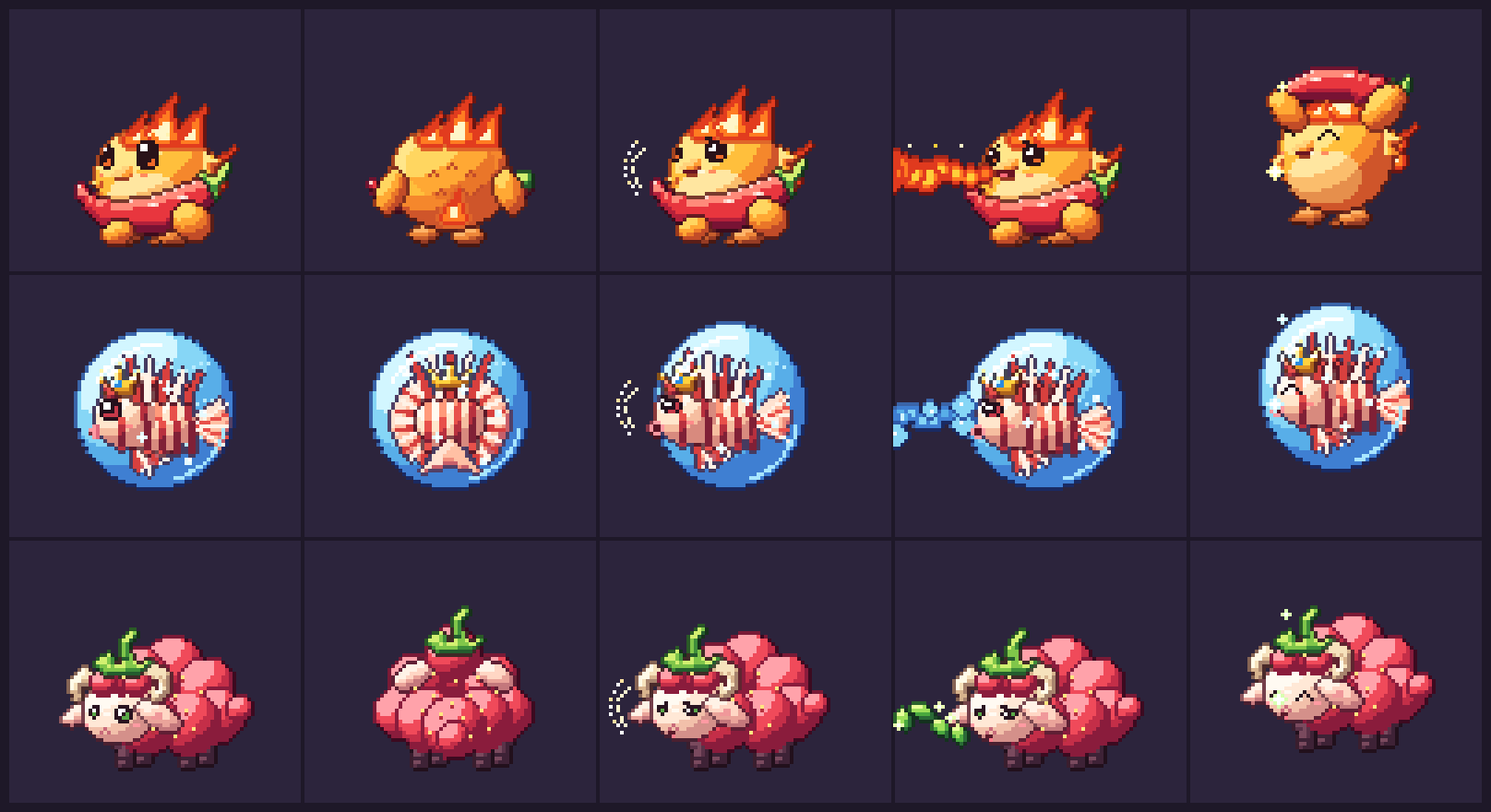
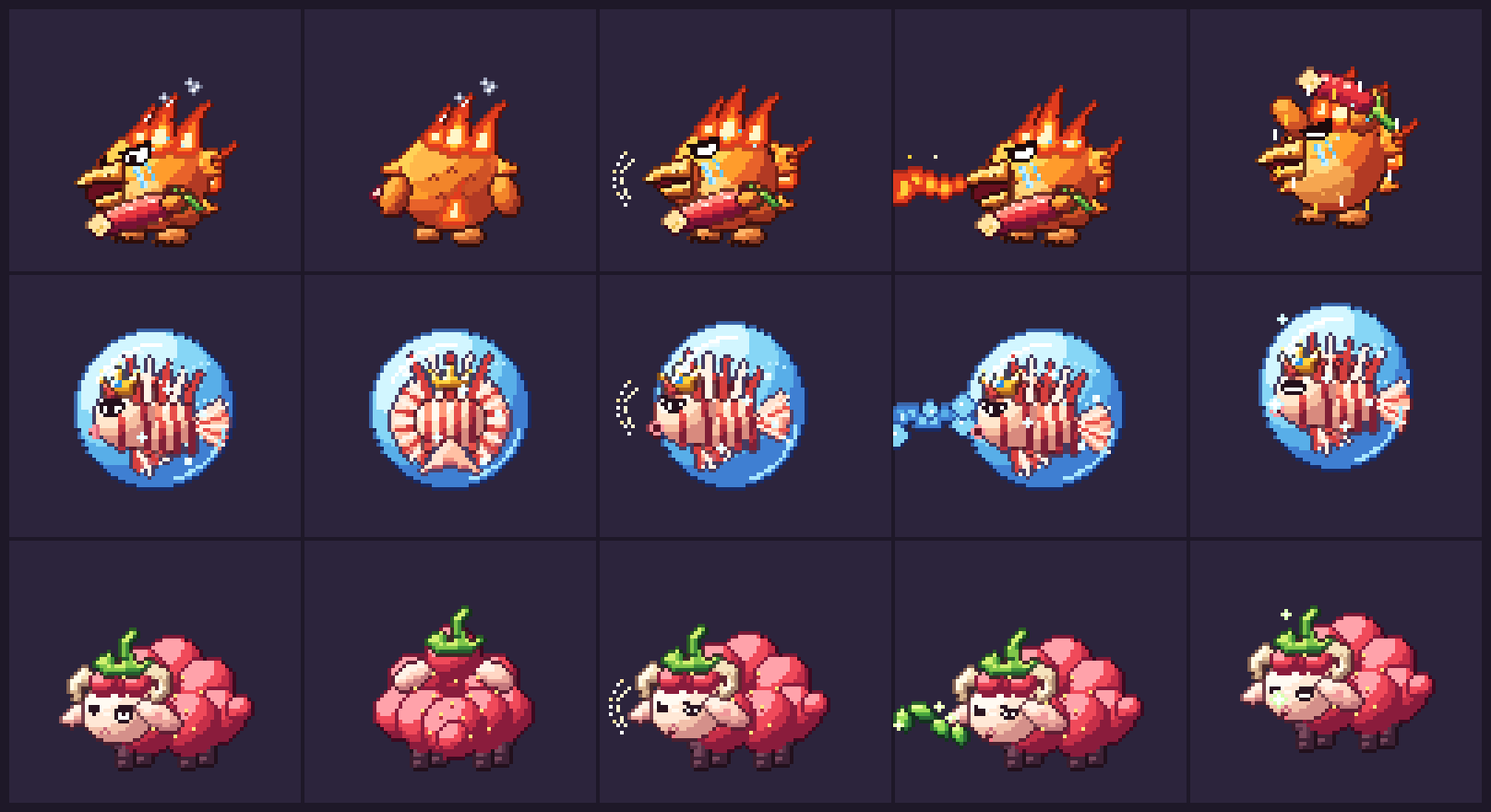
Chilichick redrawn mad: white glaring eyes, tears, screaming hooked beak, a bitten pepper in its wing; no cute eyes or blush on any starter
Claude-Session: https://claude.ai/code/session_015gU2GdpRsHMvMoBWRYFCmL

diff --git a/src/data/sprites/pix_starters.js b/src/data/sprites/pix_starters.js
@@ -3,150 +3,170 @@
 import { FX } from '../../px/pixmon.js';
 
 // ================================================================== CHILICHICK
-// A small, fat fire chick hugging a chili as big as its belly. A crest of three
-// flame tongues (no comb), a flame tuft for a tail, ember-lit eyes.
+// A small, fat, furious fire chick. It bit a chili pepper it knew was too hot and
+// now it is screaming about it: white glaring eyes with angry lids, tears streaming,
+// a wide-open hooked beak, a crest of flame tongues (no comb), ruffled feathers.
+// The pepper — bitten, seeds showing — never leaves its wing.
 const CHILI_PAL = {
-  body: { ramp: ['#ffe68a', '#ffbf3c', '#f5872c', '#cf552a'], line: '#5a1e18', lineLit: '#a4441f' },
-  belly: { ramp: ['#fff8da', '#ffe6a0', '#fbbd6c', '#e68f4c'], line: '#5a1e18' },
-  wing: { ramp: ['#ffd660', '#ffa834', '#ea7629', '#c24c28'], line: '#5a1e18', lineLit: '#9a3a1c' },
-  feet: { ramp: ['#ffb468', '#ee883a', '#c75e2c', '#963c24'], line: '#481812' },
-  beak: { ramp: ['#ffd27a', '#ff9e36', '#e0672a', '#b0432a'], line: '#5a1e18' },
-  chili: { ramp: ['#ff8a7a', '#e8363e', '#b4203a', '#781334'], line: '#3c0c1c', lineLit: '#6e1430', gloss: true, spec: 0.96, specC: '#ffd6cc' },
+  body: { ramp: ['#ffd256', '#ff9c2c', '#e8622a', '#b23a24'], line: '#3e120e', lineLit: '#8a2c18' },
+  belly: { ramp: ['#fff0b8', '#ffd47a', '#f6a650', '#d87a3a'], line: '#3e120e' },
+  wing: { ramp: ['#ffb84a', '#f2842a', '#cf5226', '#9a3220'], line: '#3e120e', lineLit: '#7a2416' },
+  feet: { ramp: ['#ffb468', '#e8803a', '#bc5a2c', '#863822'], line: '#2e0e0a' },
+  beak: { ramp: ['#ffe68e', '#ffb43a', '#e2782a', '#a84a20'], line: '#2e0e08', lineLit: '#7a3a14', th: [0.62, 0.3, 0.02] },
+  mouth: { ramp: ['#8a1c26', '#6a1020', '#4a0a18', '#300610'], line: '#2e0e08', flat: true },
+  chili: { ramp: ['#ff8a7a', '#e8363e', '#b4203a', '#781334'], line: '#3c0c1c', lineLit: '#6e1430', gloss: true, spec: 0.95, specC: '#ffd6cc' },
+  flesh: { ramp: ['#fff6d0', '#ffe2a0', '#f6c070', '#d89a50'], line: '#3c0c1c', flat: true },
   leaf: { ramp: ['#d2f070', '#80c64a', '#3f8e3a', '#245c2e'], line: '#16301a' },
-  crest: { ramp: ['#fff6c8', '#ffd040', '#ff7c22', '#e23c1e'], line: '#6a1612', lineLit: '#a42a18', th: [0.8, 0.5, 0.18], inner: '#e0662a' },
+  crest: { ramp: ['#fff6c8', '#ffd040', '#ff7c22', '#e23c1e'], line: '#5a120e', lineLit: '#a42a18', th: [0.8, 0.5, 0.18], inner: '#c84a22' },
 };
-const K = '#2a1218', WH = '#ffffff', EM = '#ee6a2a', EM2 = '#ffb04a';
-const EYE = {   // near eye 5×7 / far eye 3×6, per expression
-  open: [['.kkkk.', 'kWWkkk', 'kWWkkk', 'kkkkkk', 'kkkkkk', 'kkkkgk', 'kkkggk', '.kkkk.'], ['.kk.', 'kWkk', 'kkkk', 'kkkk', 'kkgk', 'kggk', '.kk.']],
-  fierce: [['kk....', '.kkk..', 'kkWkkk', 'kWWkkk', 'kkkkkk', 'kkkggk', '.kkkk.'], ['...k', '.kk.', 'kWkk', 'kkkk', 'kkgk', '.kk.']],
-  closed: [['......', '......', '......', '......', 'k....k', '.kkkk.'], ['....', '....', '....', '....', 'k..k', '.kk.']],
-  sleep: [['......', '......', '......', '......', '......', 'kkkkkk', '.kkkk.'], ['....', '....', '....', '....', '....', 'kkkk']],
-  happy: [['......', '......', '..kk..', '.k..k.', 'k....k'], ['....', '....', '.kk.', 'k..k', '....']],
-  hurt: [['......', '....kk', '..kk..', 'kk....', '..kk..', '....kk'], ['....', 'kk..', '..kk', '...k', '..kk', 'kk..']],
-  ko: [['......', 'kk..kk', '.kkkk.', '..kk..', '.kkkk.', 'kk..kk'], ['....', 'k..k', '.kk.', '.kk.', 'k..k']],
+// angry eyes, Pokémon-style: white with a dot pupil under a hard slanted lid (facing left)
+const K = '#1e0a0c', WH = '#ffffff';
+const EYE = {   // [near eye 8×6, far eye 4×4]
+  open: [['.......kk', '.....kkkk', '..kkkkWWk', 'kkkWWWWWk', '.kWppWWWk', '.kWppWWk.', '..kkkkk..'], ['kk..', '.kkk', 'kWpk', '.kkk']],
+  fierce: [['......kkk', '...kkkkkk', 'kkkkkkWWk', '.kpWWWWWk', '.kkWWWWk.', '..kkkkk..'], ['kk..', '.kkk', 'kpkk']],
+  closed: [['.......kk', '.....kkkk', '..kkkk...', 'kkk......', '.kkkkkkk.'], ['kk..', '.kkk', '..kk']],
+  sleep: [['.......kk', '....kkk..', '.........', '.........', 'kkkkkkkk.'], ['kk..', '..kk']],
+  happy: [['.......kk', '.....kkkk', '..kkkkkkk', 'kkkkkkkkk', '.kWWWWWk.', '..kkkkk..'], ['kk..', '.kkk', '.kWk']],
+  hurt: [['k.......k', '.kk...kk.', '...kkk...', '.kk...kk.', 'k.......k'], ['k..k', '.kk.', 'k..k']],
+  ko: [['.kkkkkkk.', 'kWkWWWkWk', 'kWWkWkWWk', 'kWWWkWWWk', 'kWWkWkWWk', '.kkkkkkk.'], ['kkk', 'kWk', 'kkk']],
 };
-const EYEMAP = { k: K, W: WH, g: EM, o: EM2 };
+const EYEMAP = { k: K, W: WH, p: K };
 
+// a chili pepper: pod from the stem end to the tip, calyx and curly stem; `bitten` cuts the tip open
 function chiliPod(P, pts, o = {}) {
-  // the pod, its calyx and curly stem; pts run from the stem end to the tip
   P.tube(pts, 'chili', { grp: o.grp || 'chili', round: 3 });
   const [sx, sy] = pts[0], dx = pts[0][0] - pts[1][0], dy = pts[0][1] - pts[1][1], d = Math.hypot(dx, dy) || 1, ux = dx / d, uy = dy / d;
-  // glossy streak along the top of the pod
-  for (let k = 1; k < Math.min(3, pts.length - 1); k++) { const [x, y, r] = pts[k]; P.px(x - 1, y - r + 1.4, '#ffd0c4'); P.px(x + 1, y - r + 1.4, '#ffd0c4'); P.px(x, y - r + 1.4, '#fff0ea'); }
-  // calyx: three sepals fanning back over the shoulder of the pod
+  for (let k = 1; k < Math.min(3, pts.length - 1); k++) { const [x, y, r] = pts[k]; P.px(x - 1, y - r + 1.4, '#ffd0c4'); P.px(x, y - r + 1.4, '#fff0ea'); }
+  if (o.bitten) {   // the bitten end: pale flesh and seeds
+    const [tx, ty, tr] = pts[pts.length - 1];
+    P.ell(tx, ty, tr + 0.4, tr + 0.4, 'flesh', { grp: (o.grp || 'chili') + 'b' });
+    P.px(tx, ty, '#e8b84a'); P.px(tx - 1, ty + 1, '#e8b84a'); P.px(tx + 1, ty - 1, '#fff8e0');
+  }
   const cx = sx + ux * 2, cy = sy + uy * 2;
-  P.poly([[cx - uy * 4.5, cy + ux * 4.5], [cx + ux * 3, cy + uy * 3 - 1], [cx + uy * 4.5, cy - ux * 4.5], [cx + ux * 1, cy + uy * 1 + 1.5]], 'leaf', { grp: 'calyx', round: 2 });
-  P.tube([[cx + ux * 2, cy + uy * 2, 1.3], [cx + ux * 4.5, cy + uy * 4.5 - 1.5, 1.1], [cx + ux * 4 + 1.5, cy + uy * 4 - 4, 0.9]], 'leaf', { grp: 'calyx', round: 1 });
+  P.poly([[cx - uy * 4, cy + ux * 4], [cx + ux * 3, cy + uy * 3], [cx + uy * 4, cy - ux * 4], [cx + ux, cy + uy]], 'leaf', { grp: 'calyx', round: 2 });
+  P.tube([[cx + ux * 2, cy + uy * 2, 1.2], [cx + ux * 4, cy + uy * 4 + 1, 1], [cx + ux * 4 + 2, cy + uy * 4 + 3, 0.8]], 'leaf', { grp: 'calyx', round: 1 });
+}
+
+// the beak, built from two shaded mandibles; open: 0 shut, 1 shouting, 2 screaming
+function beak(P, bx, by, open) {
+  const o = open || 0, lo = o * 2.6;
+  if (o) {
+    P.poly([[bx + 2, by + 1], [bx - 8, by + 1], [bx - 6, by + 2 + lo], [bx + 2, by + 3 + lo * 0.6]], 'mouth', { grp: 'mouth' });
+    P.ell(bx - 2, by + 2 + lo * 0.7, 2.6, 1.2 + o * 0.4, 'mouth', { grp: 'mouth', flat: true });
+    P.stamp(bx - 4, by + 1 + Math.round(lo * 0.8), ['.tt.', 'tttt'], { t: '#ff6a7a' }, { on: true });   // tongue
+  }
+  // lower mandible (behind the upper one)
+  P.poly([[bx + 2, by + 1 + lo * 0.5], [bx - 6, by + 1.5 + lo], [bx - 5, by + 3 + lo], [bx + 2, by + 4 + lo * 0.6]], 'beak', { grp: 'beakL', round: 2, lit: -0.12 });
+  // upper mandible: a strong hooked beak
+  P.poly([[bx + 2, by - 4], [bx - 3, by - 2.5], [bx - 8, by - 0.5], [bx - 10, by + 1.5], [bx - 8.5, by + 1.6], [bx + 2, by + 1.2]], 'beak', { grp: 'beakU', round: 2 });
+  P.px(bx - 1, by - 2, '#fff6c0'); P.px(bx - 3, by - 1, '#fff6c0'); P.px(bx + 0, by - 3, '#ffe68e');       // ridge highlight
+  P.px(bx - 2, by - 1, '#7a3a14');                                                                        // nostril
 }
 
 function chilichick(P, m) {
-  const back = m.view === 'back', sq = m.sq, rx = 16 + sq, ry = 14 - sq;
-  const lean = m.lean + (m.tilt ? Math.round(m.tilt * 2) : 0);
-  const X = 40 + m.dx, base = 60 + m.bob, cy = base - ry, top = cy - ry;
-  const fx = X - lean;                                         // the face leans with the body
-  const fl = (m.ph >> 1) % 3;                                  // flame flicker phase
-  // ---- crest + tail (behind the body in the front view)
+  const back = m.view === 'back', sq = m.sq, rx = 15 + sq, ry = 13 - sq;
+  const idle = m.clip === 'idle' || m.clip === 'walk' || m.clip === 'run';
+  const shake = m.clip === 'idle' && (m.ph >> 1) % 2 ? 1 : 0;              // shaking with rage
+  const lean = 1 + m.lean + (m.tilt ? Math.round(m.tilt * 2) : 0);
+  const X = 40 + m.dx + shake, base = 60 + m.bob, cy = base - ry, top = cy - ry;
+  const fx = X - lean;
+  const fl = (m.ph >> 1) % 3;
+  const mouth = m.mouth || (idle ? ((m.ph >> 3) % 3 === 0 ? 2 : 1) : m.clip === 'sleep' ? 0 : 1);
+  // ---- crest: sharp flame tongues swept back; a tail flame
   const crest = () => {
-    P.flame(fx + 9, top + 4, 10 + (fl === 0 ? 1 : 0), 4.6, 8 - (fl === 1 ? 1 : 0), 'crest', { grp: 'crest', glow: true, round: 3 });
-    P.flame(fx + 2, top + 3, 13 + (fl === 1 ? 1 : 0), 5.6, 5 - (fl === 2 ? 1 : 0), 'crest', { grp: 'crest', glow: true, round: 3 });
-    P.flame(fx - 5, top + 4, 7 + (fl === 2 ? 1 : 0), 4, 3, 'crest', { grp: 'crest', glow: true, round: 2.5 });
+    P.flame(fx + 9, top + 4, 12 + (fl === 0 ? 2 : 0), 4.4, 9 - (fl === 1 ? 2 : 0), 'crest', { grp: 'crest', glow: true, round: 3 });
+    P.flame(fx + 2, top + 3, 15 + (fl === 1 ? 2 : 0), 5.2, 6 - (fl === 2 ? 1 : 0), 'crest', { grp: 'crest', glow: true, round: 3 });
+    P.flame(fx - 3, top + 2, 9 + (fl === 2 ? 2 : 0), 3.6, 4, 'crest', { grp: 'crest', glow: true, round: 2.5 });
   };
-  const tail = () => back ? P.flame(X + 1, base - 3, 10 + (fl === 1 ? 1 : 0), 4.2, 3, 'crest', { grp: 'tail', glow: true, round: 2.5 })
-    : P.flame(X + 15, cy + 2, 11 + (fl === 1 ? 1 : 0), 4.2, 9, 'crest', { grp: 'tail', glow: true, round: 2.5 });
-  // ---- feet
+  const tail = () => back ? P.flame(X + 1, base - 3, 11 + (fl === 1 ? 1 : 0), 4.2, 3, 'crest', { grp: 'tail', glow: true, round: 2.5 })
+    : P.flame(X + 14, cy + 1, 12 + (fl === 1 ? 2 : 0), 4.2, 10, 'crest', { grp: 'tail', glow: true, round: 2.5 });
+  // ---- feet with dark talons
   const feet = () => {
     const nearUp = m.step > 0 ? 2 : 0, farUp = m.step < 0 ? 2 : 0;
-    P.ell(X - 7, base + 1.5 - farUp, 3.6, 2.1, 'feet', { grp: 'footF' });
-    P.ell(X + 5, base + 2 - nearUp, 4, 2.3, 'feet', { grp: 'footN' });
-    if (!back) {
-      P.stamp(X - 12, base + 2 - farUp, ['ff.f'], { f: '#c75e2c' }, { mat: 'feet', grp: 'footF' });
-      P.stamp(X - 1, base + 3 - nearUp, ['ff.f'], { f: '#c75e2c' }, { mat: 'feet', grp: 'footN' });
-    }
+    P.ell(X - 6, base + 1.5 - farUp, 3.4, 2, 'feet', { grp: 'footF' });
+    P.ell(X + 5, base + 2 - nearUp, 3.8, 2.2, 'feet', { grp: 'footN' });
+    if (!back) { P.stamp(X - 11, base + 2 - farUp, ['c.c.c'], { c: '#2e0e0a' }, { mat: 'feet', grp: 'footF' }); P.stamp(X, base + 3 - nearUp, ['c.c.c'], { c: '#2e0e0a' }, { mat: 'feet', grp: 'footN' }); }
   };
-  // ---- the chili, wherever the wings have it
-  const pod = () => {
+  // ---- the pepper in the near wing (stem in the wing, bitten tip toward the beak)
+  const pepper = () => {
     if (m.arm === 2 || m.arm === 3) return;
-    if (m.arm === 1) chiliPod(P, [[X + 12, top - 2, 3.6], [X + 3, top - 4, 4.2], [X - 6, top - 4, 3.6], [X - 13, top - 2, 2.2], [X - 16, top + 1, 1]]);
-    else if (m.arm === 4) chiliPod(P, [[X + 7, cy + 9, 4], [X + 1, cy + 6, 4], [X - 5, cy + 2, 3.2], [X - 9, cy - 1, 2], [X - 11, cy - 2, 1]]);
-    else chiliPod(P, [[X + 13, cy + 4, 3.8], [X + 7, cy + 8, 4.8], [X - 1, cy + 10.5, 4.9], [X - 9, cy + 11, 4.1], [X - 15, cy + 9, 2.9], [X - 19, cy + 5.5, 1.6], [X - 20, cy + 2.5, 0.9]]);
+    if (m.arm === 1) chiliPod(P, [[X + 8, top - 1, 2.4], [X + 3, top - 4, 3.2], [X - 3, top - 6, 3], [X - 7, top - 7, 2.2]], { bitten: true });
+    else if (m.arm === 4) chiliPod(P, [[X + 1, cy + 8, 2.4], [X - 3, cy + 5, 3.2], [X - 7, cy + 2, 3], [X - 10, cy, 2.2]], { bitten: true });
+    else chiliPod(P, [[X + 4, cy + 6, 2.6], [X - 1, cy + 7.5, 3.6], [X - 7, cy + 9.5, 3.5], [X - 12, cy + 11, 2.8], [X - 15, cy + 12, 2.2]], { bitten: true });
   };
   const wings = () => {
     const W = {
-      0: [[X + 10, cy + 12, 4.6, 5.6, -1.1], [X - 10, cy + 15, 3.2, 4, 1.2]],
-      1: [[X + 13, top + 2, 4.5, 7, -2.4], [X - 13, top + 3, 3.6, 6, 2.4]],
-      2: [[X - 6, cy + 2, 4.5, 7, 1.2], [X - 15, cy + 2, 3.4, 5.5, 1.1]],
-      3: [[X + 9, cy + 6, 5, 7, -0.4], [X - 11, cy + 7, 3.4, 5, 0.5]],
-      4: [[X + 7, cy + 10, 5, 7, -1.0], [X - 9, cy + 9, 3.6, 5, 0.8]],
+      0: [[X + 7, cy + 7, 4.4, 6, -0.9], [X - 12, cy + 2, 3.4, 5.6, 0.2]],
+      1: [[X + 9, top + 1, 4.2, 6.5, -2.4], [X - 12, top + 3, 3.4, 6, 2.4]],
+      2: [[X - 8, cy + 1, 4.4, 6.5, 1.3], [X - 14, cy + 1, 3.4, 5.5, 1.1]],
+      3: [[X + 5, cy + 7, 4.4, 6.5, -0.5], [X - 12, cy + 5, 3.4, 5, 0.4]],
+      4: [[X + 1, cy + 8, 4.4, 6.2, -1.3], [X - 12, cy + 6, 3.4, 5, 0.6]],
     }[m.arm] || [];
     const [nw, fw] = W;
-    if (fw) P.ell(fw[0], fw[1], fw[2], fw[3], 'wing', { rot: fw[4], grp: 'wingF' });
+    const flap = idle && fw ? ((m.ph >> 2) % 2 ? -2 : 0) : 0;                 // the far wing shakes a fist
+    if (fw) P.ell(fw[0], fw[1] + flap, fw[2], fw[3], 'wing', { rot: fw[4] + flap * 0.15, grp: 'wingF' });
     if (nw) {
       P.ell(nw[0], nw[1], nw[2], nw[3], 'wing', { rot: nw[4], grp: 'wingN' });
-      // feather tips along the wing's lower edge
-      const c = Math.cos(nw[4]), s = Math.sin(nw[4]);
-      for (const u of [-0.45, 0, 0.45]) { const lx = nw[0] + (-s) * nw[3] * 0.82 + c * nw[2] * u * 1.4, ly = nw[1] + c * nw[3] * 0.82 + s * nw[2] * u * 1.4; P.px(lx, ly, '#c24c28'); }
+      const c = Math.cos(nw[4]), sn = Math.sin(nw[4]);
+      for (const u of [-0.5, 0, 0.5]) { const lx = nw[0] + (-sn) * nw[3] * 0.85 + c * nw[2] * u * 1.3, ly = nw[1] + c * nw[3] * 0.85 + sn * nw[2] * u * 1.3; P.px(lx, ly, '#9a3220'); P.px(lx + 1, ly + 1, '#9a3220'); }
     }
   };
   const face = () => {
-    const ex = m.eyes, e = EYE[ex] || EYE.open;
-    const nx = fx - 5, ny = cy - 10 + (ex === 'happy' || ex === 'closed' || ex === 'sleep' ? 1 : 0), farX = fx - 15, farY = cy - 9;
+    const ex = m.eyes === 'open' && idle ? 'open' : m.eyes, e = EYE[ex] || EYE.open;
+    const nx = fx - 9, ny = cy - 11, farX = fx - 16, farY = cy - 8;
     P.stamp(nx, ny, e[0], EYEMAP, { on: true });
     P.stamp(farX, farY, e[1], EYEMAP, { on: true });
-    // always teary from the heat: a wet glint under each eye and a tear on the near cheek
-    if (ex !== 'ko') {
-      const drip = (m.ph >> 2) % 4, wet = '#bfeaff', tear = '#8ad4ff';
-      P.stamp(nx + 1, ny + (ex === 'open' ? 8 : 6), ['wwww'], { w: wet }, { on: true });
-      P.stamp(nx + 5, ny + 6 + drip, ['t', 'T'], { t: wet, T: tear }, { on: true });
-      P.stamp(farX, farY + (ex === 'open' ? 7 : 5), ['ww'], { w: wet }, { on: true });
+    // tears: streams down the cheek, drops flung back while it screams
+    if (ex !== 'ko' && ex !== 'sleep') {
+      const ph = m.ph, wet = '#c8f0ff', tear = '#6ac8ff';
+      for (let k = 0; k < 6; k++) { const y = ny + 7 + k, x = nx + 4 + Math.round(k * 0.4); P.px(x, y, (k + ph) % 3 ? tear : wet); P.px(x + 1, y, wet); }
+      for (let k = 0; k < 5; k++) { const y = ny + 6 + k, x = nx + 7 + Math.round(k * 0.6); P.px(x, y, (k + ph + 1) % 3 ? tear : wet); }
+      if (mouth >= 1) for (let k = 0; k < 3; k++) { const t = ((ph * 0.35 + k / 3) % 1); P.dot(nx + 9 + t * 12, ny + 2 - Math.sin(t * Math.PI) * 6 + k * 2, k % 2 ? tear : wet, 'water'); }
+      P.stamp(farX - 1, farY + 3, ['w', 't', 'w'], { w: wet, t: tear }, { on: true });
     }
-    // cheeks: warm blush, blazing when the chili bites back
-    const hot = m.fx.has('blush');
-    P.stamp(nx, cy - 1, [hot ? 'rrrr' : '.rr.', hot ? '.rr.' : ''], { r: hot ? '#ff4a3a' : '#ff8a5e' }, { on: true });
-    P.stamp(farX - 1, cy - 1, [hot ? 'rr' : '.r'], { r: hot ? '#ff4a3a' : '#ff8a5e' }, { on: true });
-    // beak (pointing left, between the eyes)
-    const bx = fx - 12, by = cy - 3;
-    const BK = { b: '#ffd27a', B: '#ff9e36', D: '#e0672a', d: '#9a3a22', r: '#6a1420', t: '#ff6a7a' };
-    if (m.mouth === 0) P.stamp(bx, by, ['...bbB', '.bbbBB', 'bbbBBD', '.dddd.'], BK, { mat: 'beak', grp: 'beak' });
-    else if (m.mouth === 1) P.stamp(bx, by - 1, ['...bbB', '.bbbBB', 'bbBBDd', '.rrrr.', '..ddd.'], BK, { mat: 'beak', grp: 'beak' });
-    else P.stamp(bx - 1, by - 2, ['....bbB', '..bbbBB', 'bbbBBDd', '.rrrrr.', '.rttrr.', '..dddd.'], BK, { mat: 'beak', grp: 'beak' });
-    // a little fluff on the crown
-    P.px(fx - 2, top + 2, '#fff2b0'); P.px(fx - 1, top + 1, '#fff2b0'); P.px(fx + 3, top + 2, '#fff2b0');
+    beak(P, fx - 10, cy - 1, mouth);
   };
 
   if (!back) {
     tail(); feet();
     P.ell(X - Math.round(lean / 2), cy, rx, ry, 'body', { grp: 'body', rot: lean * 0.05 });
-    // fluffy cheek tufts break up the round silhouette
-    P.poly([[X + 13, cy - 7], [X + 19, cy - 4], [X + 15, cy - 3], [X + 18, cy], [X + 13, cy + 1]], 'body', { grp: 'body', round: 2 });
-    P.poly([[X - 14, cy - 1], [X - 18, cy + 2], [X - 14, cy + 3]], 'body', { grp: 'body', round: 2 });
-    crest();
-    P.ell(X - 3 - lean, cy + 6, 10, 7.5, 'belly', { paint: true, grp: 'body' });
-    pod(); wings(); face();
+    // ruffled, spiky feather edges (back of the head, cheek, chest)
+    P.poly([[X + 11, cy - 9], [X + 19, cy - 7], [X + 14, cy - 5], [X + 19, cy - 2], [X + 13, cy - 1]], 'body', { grp: 'body', round: 2 });
+    P.poly([[X - 13, cy + 3], [X - 18, cy + 5], [X - 13, cy + 7], [X - 16, cy + 9], [X - 11, cy + 9]], 'body', { grp: 'body', round: 2 });
+    P.poly([[X + 13, cy + 5], [X + 18, cy + 8], [X + 12, cy + 9]], 'body', { grp: 'body', round: 2 });
+    P.ell(X - 3 - lean, cy + 6, 9, 6.5, 'belly', { paint: true, grp: 'body' });
+    for (const [dx, dy] of [[-6, 3], [-1, 4], [4, 3], [-4, 8], [1, 9]]) { P.px(X - lean + dx, cy + dy, '#f6a650'); P.px(X - lean + dx + 1, cy + dy + 1, '#f6a650'); }   // feather scallops
+    crest(); wings(); pepper();
+    // the near wing's tip wraps over the stem
+    if (m.arm === 0) P.ell(X + 5, cy + 6, 2.8, 2.4, 'wing', { grp: 'wingTip' });
+    face();
   } else {
-    // from behind: the pod peeks out either side, the crest and tail face us
-    if (m.arm === 0 || m.arm === 4) { P.tube([[X + 15, cy + 4, 3.4], [X + 19, cy + 3, 2.6]], 'chili', { grp: 'chili' }); P.tube([[X - 15, cy + 6, 3], [X - 19, cy + 4, 1.6], [X - 21, cy + 2, 0.8]], 'chili', { grp: 'chili' }); P.ell(X + 20, cy + 1, 2.4, 2, 'leaf', { grp: 'calyx' }); }
     feet();
     P.ell(X, cy, rx, ry, 'body', { grp: 'body' });
-    P.ell(X, cy - 3, 12, 9, 'wing', { paint: true, grp: 'body' });               // deeper orange back
-    for (const [dx, dy] of [[-5, -2], [0, -4], [5, -2], [-3, 3], [3, 3]]) { P.px(X + dx, cy + dy, '#c24c28'); P.px(X + dx + 1, cy + dy + 1, '#c24c28'); P.px(X + dx - 1, cy + dy + 1, '#c24c28'); }   // feather chevrons
-    if (m.arm === 1) chiliPod(P, [[X + 12, top - 2, 3.6], [X + 3, top - 4, 4.2], [X - 6, top - 4, 3.6], [X - 13, top - 2, 2.2], [X - 16, top + 1, 1]]);
-    P.ell(X - 16, cy + 4, 3.6, 6, 'wing', { rot: 0.3, grp: 'wingF' }); P.ell(X + 16, cy + 4, 3.6, 6, 'wing', { rot: -0.3, grp: 'wingN' });
+    P.poly([[X - 13, cy - 6], [X - 19, cy - 3], [X - 13, cy]], 'body', { grp: 'body', round: 2 }); P.poly([[X + 13, cy - 6], [X + 19, cy - 3], [X + 13, cy]], 'body', { grp: 'body', round: 2 });
+    P.ell(X, cy - 3, 11, 8, 'wing', { paint: true, grp: 'body' });
+    for (const [dx, dy] of [[-5, -2], [0, -4], [5, -2], [-3, 3], [3, 3]]) { P.px(X + dx, cy + dy, '#9a3220'); P.px(X + dx + 1, cy + dy + 1, '#9a3220'); P.px(X + dx - 1, cy + dy + 1, '#9a3220'); }
+    if (m.arm === 0 || m.arm === 4) P.tube([[X - 15, cy + 7, 2.4], [X - 19, cy + 4, 1.6]], 'chili', { grp: 'chili' });
+    if (m.arm === 1) chiliPod(P, [[X + 8, top - 1, 2.4], [X + 3, top - 4, 3.2], [X - 3, top - 6, 3], [X - 7, top - 7, 2.2]], { bitten: true });
+    P.ell(X - 15, cy + 4, 3.4, 5.6, 'wing', { rot: 0.3, grp: 'wingF' }); P.ell(X + 15, cy + 4, 3.4, 5.6, 'wing', { rot: -0.3, grp: 'wingN' });
     crest(); tail();
   }
   // ---- effects
-  if (m.fx.has('breath')) FX.breath(P, fx - 13, cy - 1, m, 'fire');
-  if (m.fx.has('toss')) { const t = m.k, x = X - 18 - t * 34, y = cy - 6 - Math.sin(t * Math.PI) * 14; chiliPod(P, [[x + 6, y - 2, 2.6], [x, y, 3], [x - 5, y + 2, 1.6], [x - 7, y + 4, 0.8]], { grp: 'fly' }); if (m.ph % 2) P.dot(x + 9, y - 3, '#ffcf3a'); }
+  if (m.fx.has('breath')) FX.breath(P, fx - 19, cy + 1, m, 'fire');
+  if (m.fx.has('toss')) { const t = m.k, x = X - 18 - t * 34, y = cy - 6 - Math.sin(t * Math.PI) * 14; chiliPod(P, [[x + 5, y - 2, 2.2], [x, y, 2.8], [x - 4, y + 2, 1.8]], { grp: 'fly', bitten: true }); }
   if (m.fx.has('dash')) { FX.dash(P, X + 16, cy, m); P.flame(X + 17, cy + 6, 6, 2.6, 7, 'fire', { glow: true, round: 2, grp: 'fx-dash' }); }
-  if (m.fx.has('swipe')) FX.swipe(P, fx - 18, cy - 2);
+  if (m.fx.has('swipe')) FX.swipe(P, fx - 20, cy);
   if (m.fx.has('hit')) FX.hit(P, X + 2, cy - 4, m);
-  if (m.fx.has('aura') || m.fx.has('cast')) FX.aura(P, X, cy + 2, rx + 5, ry + 3, m, '#ffb03a');
-  if (m.fx.has('sparkle')) FX.sparkle(P, X, cy, m);
+  if (m.fx.has('aura') || m.fx.has('cast')) FX.aura(P, X, cy + 2, rx + 5, ry + 3, m, '#ff8a2a');
+  if (m.fx.has('sparkle')) FX.aura(P, X, cy, rx + 3, ry + 2, m, '#ffcf3a');
   if (m.fx.has('zz')) FX.zz(P, X + 10, top - 2, m);
-  if (m.fx.has('steam')) FX.steam(P, fx, top - 6, m);
+  if (m.fx.has('steam') || m.clip === 'idle') for (let k = 0; k < 3; k++) {   // heat steaming off its head
+    const t = (m.t * 3 + k / 3) % 1, x = fx - 2 + k * 6 + Math.round(Math.sin(t * 7 + k) * 1.5), y = top - 4 - Math.round(t * 12);
+    if (t < 0.8) { P.dot(x, y, '#ffffff', 'steam'); P.dot(x + 1, y - 1, '#e8ecf4', 'steam'); if (t > 0.3) P.dot(x - 1, y - 2, '#e8ecf4', 'steam'); }
+  }
   if (m.fx.has('hearts')) FX.hearts(P, X + 12, top, m);
   if (m.fx.has('bond')) FX.aura(P, X, cy + 2, rx + 6, ry + 4, m, '#7af0ff');
 }
-
 
 // ================================================================== BUBBLION
 // A little lionfish prince riding in a ball of water: a mane of striped fin rays
@@ -162,16 +182,16 @@ const BUB_PAL = {
   gold: { ramp: ['#fff6a8', '#ffd23e', '#e49a24', '#ae641c'], line: '#4a2810', lineLit: '#8a5418', gloss: true, spec: 0.9 },
   lips: { ramp: ['#ffd8d8', '#ff9aa2', '#e0687c', '#b04a62'], line: '#4a1622' },
 };
-const BEYE = {
-  open: ['.kkkk.', 'kWWkkk', 'kWWkrk', 'kkkkrk', 'krrrrk', '.kkkk.'],
-  fierce: ['kk....', '.kkkk.', 'kWWkrk', 'kkkkrk', '.krrk.'],
-  closed: ['......', '......', '......', 'k....k', '.kkkk.'],
-  sleep: ['......', '......', '......', '......', 'kkkkkk'],
-  happy: ['......', '..kk..', '.k..k.', 'k....k'],
-  hurt: ['......', 'kk....', '..kk..', '....kk', '..kk..', 'kk....'],
-  ko: ['......', 'kk..kk', '.kkkk.', '..kk..', '.kkkk.', 'kk..kk'],
+const BEYE = {   // smug and half-lidded: a proud little king, never cute
+  open: ['.kkkkk.', 'kkkkkkk', 'kWppWWk', 'kWppWk.', '.kkkk..'],
+  fierce: ['kk.....', '.kkkkkk', 'kkWppWk', '.kWppk.', '..kkk..'],
+  closed: ['.kkkkk.', 'kkkkkkk', '.kkkkk.'],
+  sleep: ['.......', 'kkkkkkk', '.kkkkk.'],
+  happy: ['.kkkkk.', 'kkkkkkk', 'kWWWWWk', '.kkkkk.'],
+  hurt: ['k.....k', '.kk.kk.', '...k...', '.kk.kk.', 'k.....k'],
+  ko: ['.kkkkk.', 'kWkWkWk', 'kWWkWWk', 'kWkWkWk', '.kkkkk.'],
 };
-const BEYEMAP = { k: '#24101c', W: '#ffffff', r: '#c83a4a' };
+const BEYEMAP = { k: '#24101c', W: '#ffffff', p: '#24101c' };
 function bubblion(P, m) {
   const back = m.view === 'back', sq = m.sq, R = 21;
   const BX = 40 + m.dx, BY = 37 + m.bob + Math.round(Math.sin(m.t * Math.PI * 2) * (m.clip === 'idle' ? 1 : 0)) + (m.tilt ? Math.round(m.tilt * 4) : 0);
@@ -212,7 +232,6 @@ function bubblion(P, m) {
     const lx = fx - 15, ly = fy + 3;
     if (m.mouth) P.stamp(lx - 1, ly - 1, ['.pp.', 'pkkp', 'pkkp', '.pp.'], { p: '#ff9aa2', k: '#5a1424' }, { mat: 'lips', grp: 'lips' });
     else P.stamp(lx - 1, ly - 1, ['.pP', 'ppP', 'dpP', '.pP'], { p: '#ff9aa2', P: '#e0687c', d: '#7a2a3a' }, { mat: 'lips', grp: 'lips' });
-    P.stamp(fx - 6, fy + 2, ['rr'], { r: '#ff8a8a' }, { on: true });                                                        // blush
   } else {
     // from behind: spines up top, mane fans either side, tail toward us
     for (const sgn of [-1, 1]) { const mx = fx + 2 + sgn * 2, my = fy + 1; const fan = []; for (let a = -1.2; a <= 1.2; a += 0.2) fan.push([mx + sgn * Math.cos(a) * 14, my + Math.sin(a) * 12]); P.poly([[mx, my], ...fan], 'fin', { grp: 'mane', round: 3 }); for (let k = 0, a = -1.1; a <= 1.12; a += 0.22, k++) ray(mx, my, sgn > 0 ? a : Math.PI - a, 13, k); }
@@ -254,16 +273,16 @@ const STRAW_PAL = {
   leaf: { ramp: ['#d2f070', '#80c64a', '#3f8e3a', '#245c2e'], line: '#16301a', lineLit: '#2a5a26' },
   leg: { ramp: ['#a87a8a', '#7a4a5e', '#5a3248', '#3e2236'], line: '#22101c' },
 };
-const SEYE = {
-  open: [['.kkk.', 'kWWkk', 'kWkgk', 'kkggk', '.kkk.'], ['.kk', 'kWk', 'kgk', '.k.']],
-  fierce: [['kk...', '.kkkk', 'kWkgk', '.kkk.'], ['..k', 'kkk', 'kgk', '.k.']],
-  closed: [['.....', '.....', 'k...k', '.kkk.'], ['...', '...', 'k.k', '.k.']],
-  sleep: [['.....', '.....', '.....', 'kkkkk'], ['...', '...', '...', 'kkk']],
-  happy: [['.....', '..k..', '.k.k.', 'k...k'], ['...', '.k.', 'k.k', '...']],
+const SEYE = {   // calm and steady: white with a dot pupil under a firm lid
+  open: [['.kkkk', 'kkkkk', 'kWpWk', 'kWWWk', '.kkk.'], ['kkk', 'kpk', '.k.']],
+  fierce: [['kk...', '.kkkk', 'kWpWk', '.kkk.'], ['k..', 'kkk', 'kpk']],
+  closed: [['.....', '.kkkk', 'kkkk.', '.....'], ['...', 'kkk']],
+  sleep: [['.....', '.....', 'kkkkk', '.kkk.'], ['...', 'kkk']],
+  happy: [['.kkkk', 'kkkkk', 'kWWWk', '.kkk.'], ['kkk', 'kWk']],
   hurt: [['k....', '.kk..', '...kk', '.kk..', 'k....'], ['..k', 'kk.', '..k']],
   ko: [['k...k', '.k.k.', '..k..', '.k.k.', 'k...k'], ['k.k', '.k.', 'k.k']],
 };
-const SEYEMAP = { k: '#2a1420', W: '#ffffff', g: '#5aa848' };
+const SEYEMAP = { k: '#2a1420', W: '#ffffff', p: '#2a1420' };
 const SEEDS = [[0, 0], [5, 2], [10, 0], [2, 5], [8, 6], [-3, 4], [13, 4], [4, 9], [10, 11], [-1, 10], [15, 9], [6, -4], [12, -5], [0, -6], [17, -1], [-5, -2]];
 function strawbaa(P, m) {
   const back = m.view === 'back', sq = m.sq;
@@ -303,11 +322,10 @@ function strawbaa(P, m) {
     P.circ(fx + 1, fy - 9, 4.6, 'wool', { grp: 'bang1' }); P.circ(fx - 4, fy - 7, 3.3, 'wool', { grp: 'bang2' }); P.circ(fx + 5, fy - 7, 3.2, 'wool', { grp: 'bang3' });
     P.stamp(fx, fy - 11, ['y.y', '...', '.y.'], { y: '#ffe680' }, { onMat: 'wool' });
     calyx(P, fx + 1, fy - 15, m);
-    // eyes, blush, nose and mouth
+    // eyes, nose and mouth
     const e = SEYE[m.eyes] || SEYE.open, dy = m.eyes === 'happy' || m.eyes === 'closed' ? 1 : 0;
     P.stamp(fx - 1, fy - 1 + dy, e[0], SEYEMAP, { on: true });
     P.stamp(fx - 8, fy - 1 + dy, e[1], SEYEMAP, { on: true });
-    P.stamp(fx + 4, fy + 4, ['rr'], { r: m.fx.has('blush') ? '#ff5a6a' : '#ff9aa2' }, { on: true }); P.stamp(fx - 9, fy + 4, ['r'], { r: '#ff9aa2' }, { on: true });
     P.stamp(fx - 5, fy + 5, ['.n.', 'n.n'], { n: '#c86a7a' }, { on: true });
     if (m.mouth) P.stamp(fx - 5, fy + 7, ['kk', 'tt'], { k: '#5a1a2a', t: '#ff7a8a' }, { on: true });
   }

diff --git a/src/px/game/story.js b/src/px/game/story.js
@@ -11,7 +11,7 @@ import { Actor } from '../scene2d.js';
 import * as S from '../../game/state.js';
 
 const STARTERS = [
-  { id: 'chilichick', el: 'Pyro', color: '#ff7a3a', icon: 'flame', blurb: 'A small, round fire chick that hugs a chili bigger than its belly and never lets go. Its flame crest flares when it gets fired up. Fast, close-range, scary fire.' },
+  { id: 'chilichick', el: 'Pyro', color: '#ff7a3a', icon: 'flame', blurb: 'A small, fat, furious fire chick. It bites peppers it knows are too hot, then screams and cries about it — and breathes fire. Fast, close-range, scary fire.' },
   { id: 'bubblion', el: 'Hydro', color: '#5ab8f0', icon: 'drop', blurb: 'A lionfish prince floating in its own soft, bouncy ball of water. Water-bullet sniper: long range, slow and precise.' },
   { id: 'strawbaa', el: 'Bio', color: '#ff5a78', icon: 'leaf', blurb: 'A strawberry sheep from the Strawberry Fields. Heals friends, plants vines that hurt foes and heal allies, and rams hard.' },
 ];
